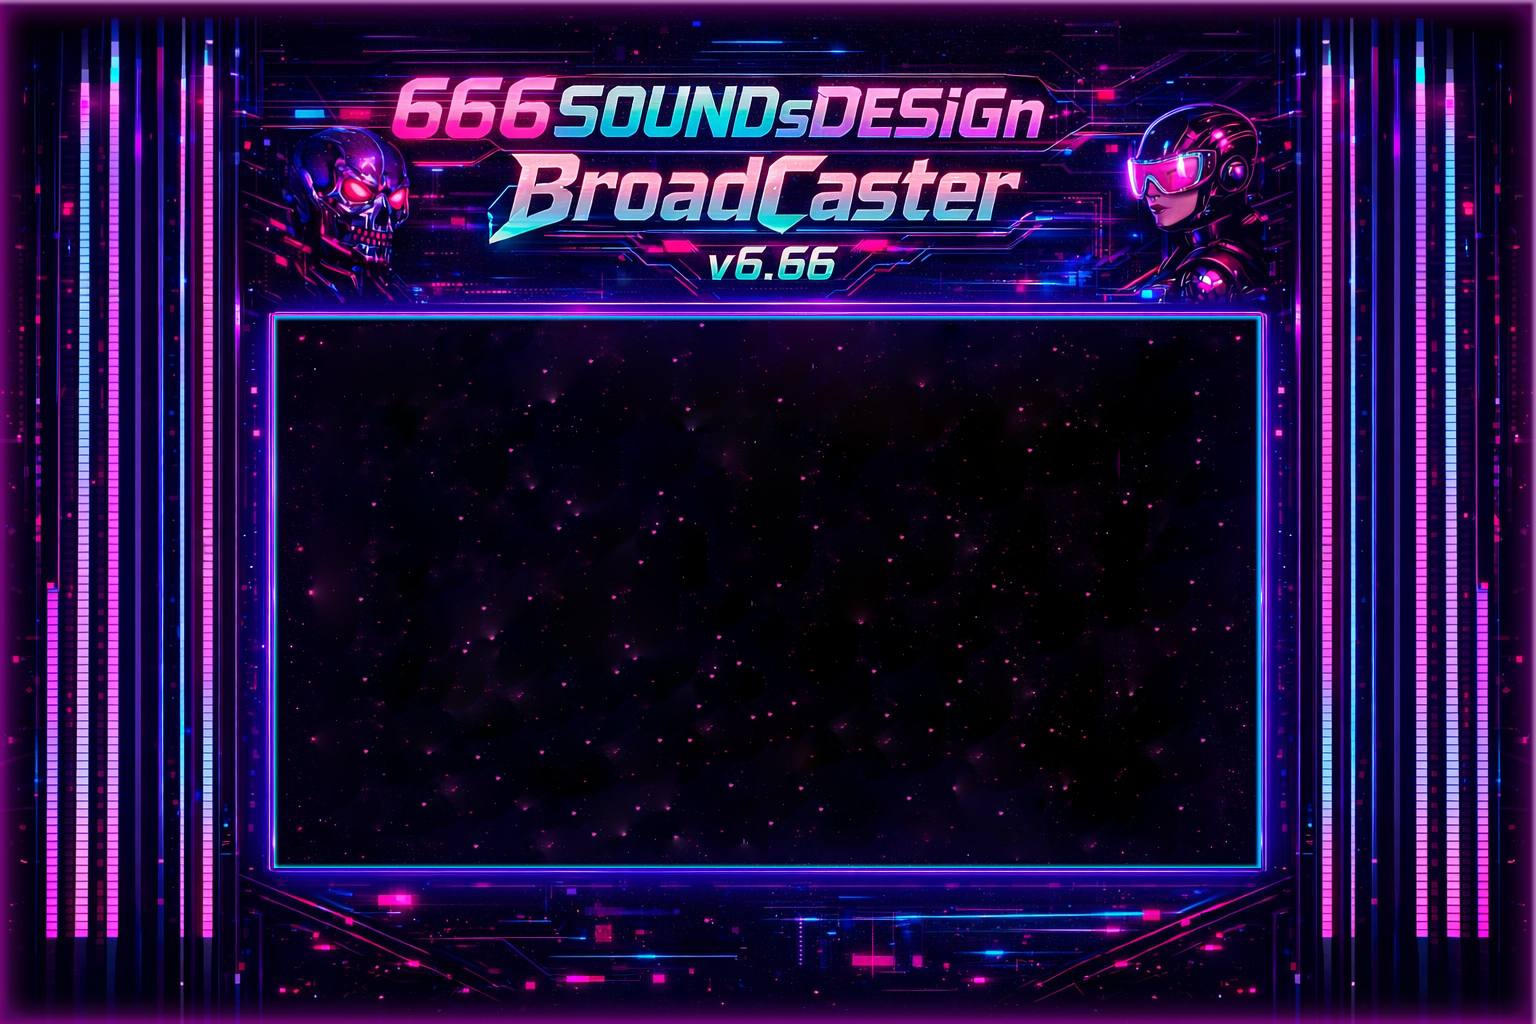
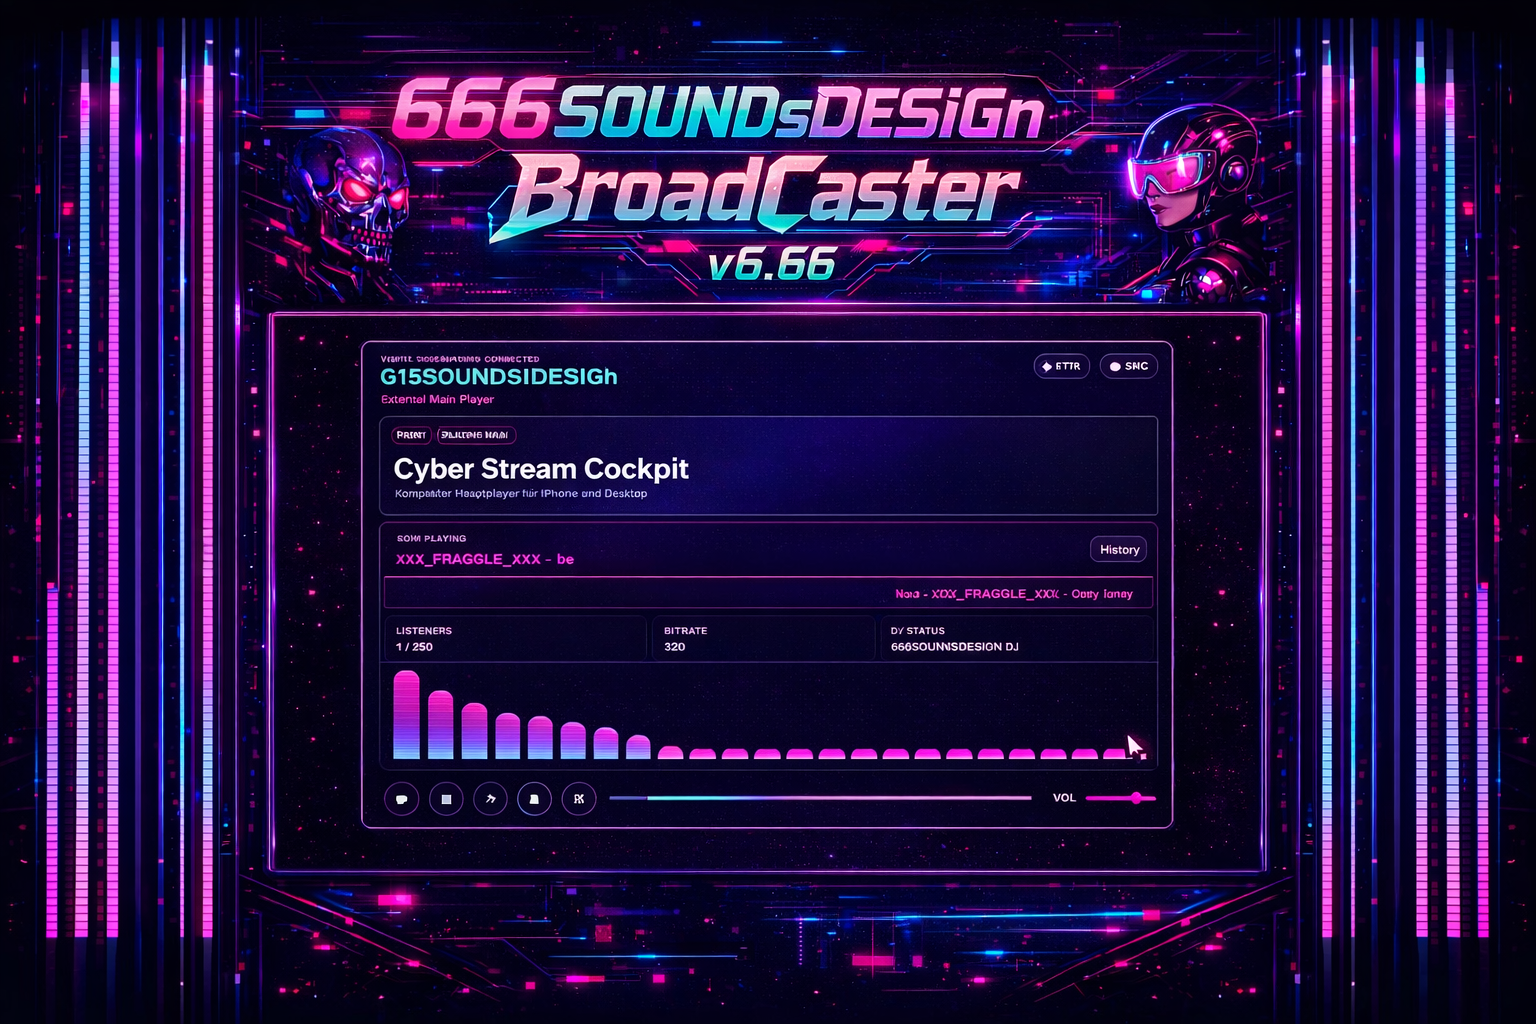
single-commit folder upload (29 files)

diff --git a/external-player/js/player-core.js b/external-player/js/player-core.js
@@ -4,7 +4,7 @@ DATEI: external-player/js/player-core.js
 ERSTELLT: 2026-04-20
 GEÄNDERT: 2026-04-21
 ZWECK: Hauptlogik des externen Players mit bestehenden Worker-Endpunkten.
-ÄNDERUNG: FULLPACK v6 FINAL UI. Kompaktere EQ-Geometrie, doppelte Außenmeter und Fullscreen-Mobile-Panel ergänzt.
+ÄNDERUNG: FULLPACK v8 METADATA + EQ. DJ-Default bereinigt, No-DJ aus Now-Playing entfernt, Ticker auf Neon-Cyan umgestellt, filigraner EQ mit mehr Bewegung und rechts korrekt gespiegelt.
 HINWEIS: Audio, Metadaten und Fallback weiter nur über bestehende Worker-Routen.
 ==========================================
 */
@@ -52,7 +52,7 @@ let userStopped = false;
 let metadataTimer = 0;
 let historyItems = [];
 
-const bars = createBars(document.getElementById('eqBars'), window.innerWidth <= 860 ? 16 : 18);
+const bars = createBars(document.getElementById('eqBars'), window.innerWidth <= 860 ? 20 : 28);
 const visualizer = startVisualizer({ audio, bars, leftMeters, rightMeters });
 installResponsiveHelpers(historyToggle, historyPanel);
 applyStatusChip(statusSource, 'external', 'Externer Hauptplayer aktiv');
@@ -104,25 +104,54 @@ function updateHistory(title) {
   });
 }
 
+
+function normalizeDjName(raw) {
+  const value = String(raw || '').trim();
+  if (!value) return '666SOUNDsDESIGn';
+  const lowered = value.toLowerCase();
+  if (lowered === 'no dj' || lowered === 'nodj' || lowered === 'no-dj' || lowered === '-') return '666SOUNDsDESIGn';
+  return value;
+}
+
+function cleanNowPlayingText(raw) {
+  let value = String(raw || '').trim();
+  if (!value) return 'Unknown title';
+  value = value.replace(/^\s*no\s*dj\s*[-:|–—]*\s*/i, '');
+  value = value.replace(/^\s*666soundsdesign\s*dj\s*[-:|–—]*\s*/i, '');
+  value = value.replace(/^\s*dj\s*[-:|–—]*\s*/i, '');
+  value = value.replace(/^\s*[-:|–—]+\s*/, '');
+  return value.trim() || 'Unknown title';
+}
+
+
 function parseMetadata(payload) {
   if (!payload || typeof payload !== 'object') {
     return {
-      title: 'No metadata', listeners: '0 / 250', bitrate: 'Unknown', dj: '666SOUNDsDESIGn DJ'
+      title: 'Unknown title',
+      listeners: '0 / 250',
+      bitrate: 'Unknown',
+      dj: '666SOUNDsDESIGn'
     };
   }
 
-  const title = payload.title || payload.now_playing || payload.song || payload.currenttrack || payload.currentSong || 'Unknown title';
-  const artist = payload.artist || payload.dj || payload.djusername || '';
+  const rawTitle = payload.title || payload.now_playing || payload.song || payload.currenttrack || payload.currentSong || '';
+  const rawArtist = payload.artist || payload.dj || payload.djusername || '';
   const listeners = payload.listeners || payload.currentlisteners || payload.listener_count || 0;
   const bitrate = payload.bitrate || payload.stream_bitrate || 'Unknown';
   const max = payload.maxlisteners || payload.listener_capacity || 250;
-  const dj = payload.dj || payload.djusername || artist || '666SOUNDsDESIGn DJ';
+  const dj = normalizeDjName(payload.dj || payload.djusername || rawArtist || '');
+
+  const cleanedTitle = cleanNowPlayingText(rawTitle);
+  const cleanedArtist = cleanNowPlayingText(rawArtist);
+  const finalTitle = cleanedArtist && !cleanedTitle.toLowerCase().includes(cleanedArtist.toLowerCase())
+    ? `${cleanedArtist} - ${cleanedTitle}`
+    : cleanedTitle;
 
   return {
-    title: artist && !String(title).includes(artist) ? `${artist} - ${title}` : String(title),
+    title: finalTitle,
     listeners: `${listeners} / ${max}`,
     bitrate: String(bitrate),
-    dj: dj
+    dj
   };
 }
 

diff --git a/external-player/css/layout.css b/external-player/css/layout.css
@@ -4,8 +4,7 @@ DATEI: external-player/css/layout.css
 ERSTELLT: 2026-04-20
 GEÄNDERT: 2026-04-21
 ZWECK: Hauptlayout des externen Players.
-ÄNDERUNG: FULLPACK v7 FINAL POLISH. Clean-Frame-Integration ohne eingebauten Fake-Player,
-           kleineres echtes Panel, starke Seitenmeter und ruhigeres Cockpit-Layout.
+ÄNDERUNG: FULLPACK v8 METADATA + EQ. No-DJ-Bereinigung, Ticker in Neon-Cyan, höherer filigraner EQ, freie Control-Zone und rechts intern gespiegelte Außenmeter.
 ==========================================
 */
 .player-shell {
@@ -117,7 +116,8 @@ ZWECK: Hauptlayout des externen Players.
   padding-left: 100%;
   font-size: 0.98rem;
   font-weight: 700;
-  color: var(--pink);
+  color: var(--cyan);
+  text-shadow: 0 0 12px rgba(0,245,223,0.24);
   animation: tickerMove 14s linear infinite;
 }
 @keyframes tickerMove { from { transform: translateX(0); } to { transform: translateX(-100%); } }
@@ -146,33 +146,34 @@ ZWECK: Hauptlayout des externen Players.
 .info-value { margin-top: 6px; font-size: 1rem; font-weight: 700; }
 
 .visualizer {
-  padding: 10px 14px 10px;
-  margin: 0 16px 10px;
+  padding: 10px 14px 14px;
+  margin: 0 16px 12px;
   border-radius: 16px;
   background: rgba(6, 8, 18, 0.66);
   border: 1px solid rgba(255,255,255,0.08);
 }
 .eq-bars {
-  height: 86px;
+  height: 124px;
   display: grid;
-  grid-template-columns: repeat(18, minmax(0, 1fr));
+  grid-template-columns: repeat(28, minmax(0, 1fr));
   align-items: end;
-  gap: 7px;
-  margin-top: 8px;
+  gap: 4px;
+  margin-top: 12px;
 }
 .eq-bar {
-  min-height: 12px;
-  border-radius: 999px 999px 8px 8px;
-  background: linear-gradient(180deg, var(--purple), var(--pink) 60%, var(--cyan));
-  box-shadow: 0 0 10px rgba(184,77,255,0.22);
+  min-height: 10px;
+  border-radius: 999px 999px 6px 6px;
+  background: linear-gradient(180deg, var(--purple), var(--pink) 58%, var(--cyan));
+  box-shadow: 0 0 10px rgba(184,77,255,0.18);
   transform-origin: bottom;
 }
 .bottom-console {
   display: grid;
   grid-template-columns: auto 1fr auto;
-  gap: 12px;
+  gap: 16px;
   align-items: center;
-  padding: 0 16px 16px;
+  padding: 0 16px 18px;
+  margin-top: 4px;
 }
 .control-toolbar {
   display: flex;
@@ -209,6 +210,7 @@ ZWECK: Hauptlayout des externen Players.
   grid-template-columns: auto 1fr auto;
   align-items: center;
   gap: 10px;
+  align-self: end;
 }
 .time-chip {
   font-variant-numeric: tabular-nums;
@@ -235,10 +237,11 @@ ZWECK: Hauptlayout des externen Players.
   display: flex;
   align-items: center;
   gap: 8px;
-  min-width: 160px;
+  min-width: 170px;
   justify-content: flex-end;
+  padding-bottom: 2px;
 }
-.volume-slider { width: 110px; accent-color: var(--pink); }
+.volume-slider { width: 118px; accent-color: var(--pink); }
 
 .side-meter {
   position: absolute;

diff --git a/external-player/js/equalizer.js b/external-player/js/equalizer.js
@@ -4,28 +4,33 @@ DATEI: external-player/js/equalizer.js
 ERSTELLT: 2026-04-20
 GEÄNDERT: 2026-04-21
 ZWECK: Equalizer- und Seitenmeter-Visualisierung.
-ÄNDERUNG: FULLPACK v7 FINAL POLISH. Mehr Dynamik, ruhigere Balkenzahl und stärkere
-           full-height Außenmeter links/rechts.
+ÄNDERUNG: FULLPACK v8 METADATA + EQ. Höherer, filigranerer EQ mit mehr Bewegung; rechter Außenmeter intern gespiegelt.
 ==========================================
 */
-export function createBars(container, count = 18) {
+export function createBars(container, count = 24) {
   const bars = [];
   container.innerHTML = '';
   for (let i = 0; i < count; i += 1) {
     const bar = document.createElement('div');
     bar.className = 'eq-bar';
-    bar.style.height = `${12 + Math.max(0, 8 - i) * 6}px`;
+    const edgeBias = Math.max(0, 1 - (i / count) * 0.82);
+    bar.style.height = `${10 + edgeBias * 18}px`;
     container.appendChild(bar);
     bars.push(bar);
   }
   return bars;
 }
 
-function applyMeters(targets, valuePercent) {
+function applyMeters(targets, valuePercent, side = 'left') {
   const bounded = Math.max(10, Math.min(98, valuePercent));
   targets.forEach((el, index) => {
     if (!el) return;
-    const offset = index % 2 === 0 ? 0 : -10;
+    let offset = 0;
+    if (side === 'left') {
+      offset = index === 0 ? 0 : -10;
+    } else {
+      offset = index === 0 ? -10 : 0;
+    }
     el.style.height = `${Math.max(10, bounded + offset)}%`;
   });
 }
@@ -39,21 +44,21 @@ export function startVisualizer({ audio, bars, leftMeters = [], rightMeters = []
   let fallbackTimer = 0;
   let smoothMeter = 22;
 
-  const allMeters = [...leftMeters, ...rightMeters].filter(Boolean);
-
   const setMeters = (valuePercent) => {
-    const next = (smoothMeter * 0.64) + (Math.max(12, Math.min(98, valuePercent)) * 0.36);
+    const next = (smoothMeter * 0.56) + (Math.max(12, Math.min(98, valuePercent)) * 0.44);
     smoothMeter = next;
-    applyMeters(allMeters, next);
+    applyMeters(leftMeters, next, 'left');
+    applyMeters(rightMeters, next, 'right');
   };
 
   const renderFallback = () => {
     fallbackTimer = window.setInterval(() => {
       const t = Date.now() / 180;
       bars.forEach((bar, i) => {
-        const wave = Math.abs(Math.sin(t + i * 0.38));
-        const contour = 0.30 + Math.max(0.18, 1 - (i / bars.length) * 0.86);
-        const h = 12 + (wave * contour * 80);
+        const wave = Math.abs(Math.sin(t + i * 0.34));
+        const flutter = 0.20 + Math.abs(Math.sin(t * 0.72 + i * 0.13));
+        const contour = 0.22 + Math.max(0.20, 1 - (i / bars.length) * 0.74);
+        const h = 10 + (wave * contour * 96) + (flutter * 10);
         bar.style.height = `${h}px`;
       });
       const v = 24 + Math.abs(Math.sin(Date.now() / 220)) * 72;

diff --git a/external-player/css/mobile.css b/external-player/css/mobile.css
@@ -65,7 +65,7 @@ ZWECK: Mobile-Anpassungen.
   .meta-line { font-size: 0.86rem; line-height: 1.15; }
   .ghost-btn { padding: 6px 10px; font-size: 0.9rem; }
   .ticker-window { height: 42px; }
-  .ticker-text { font-size: 0.88rem; }
+  .ticker-text { font-size: 0.88rem; color: var(--cyan); }
   .info-grid {
     grid-template-columns: repeat(3, minmax(0,1fr));
     gap: 8px;
@@ -79,9 +79,9 @@ ZWECK: Mobile-Anpassungen.
     margin: 0 12px 8px;
   }
   .eq-bars {
-    height: 56px;
-    grid-template-columns: repeat(16, minmax(0,1fr));
-    gap: 5px;
+    height: 72px;
+    grid-template-columns: repeat(20, minmax(0,1fr));
+    gap: 4px;
   }
   .bottom-console {
     grid-template-columns: 1fr;

diff --git a/external-player/css/desktop.css b/external-player/css/desktop.css
@@ -4,8 +4,7 @@ DATEI: external-player/css/desktop.css
 ERSTELLT: 2026-04-20
 GEÄNDERT: 2026-04-21
 ZWECK: Desktop-Feinschliff.
-ÄNDERUNG: FULLPACK v7 FINAL POLISH. Player kleiner, sauber in der unteren Bildhälfte,
-           Branding oben vollständig lesbar.
+ÄNDERUNG: FULLPACK v8 METADATA + EQ. EQ höher und filigraner, Volume sauberer im Bottom-Console-Bereich, No-DJ-Bereinigung in den Playerdaten.
 ==========================================
 */
 @media (min-width: 861px) {
